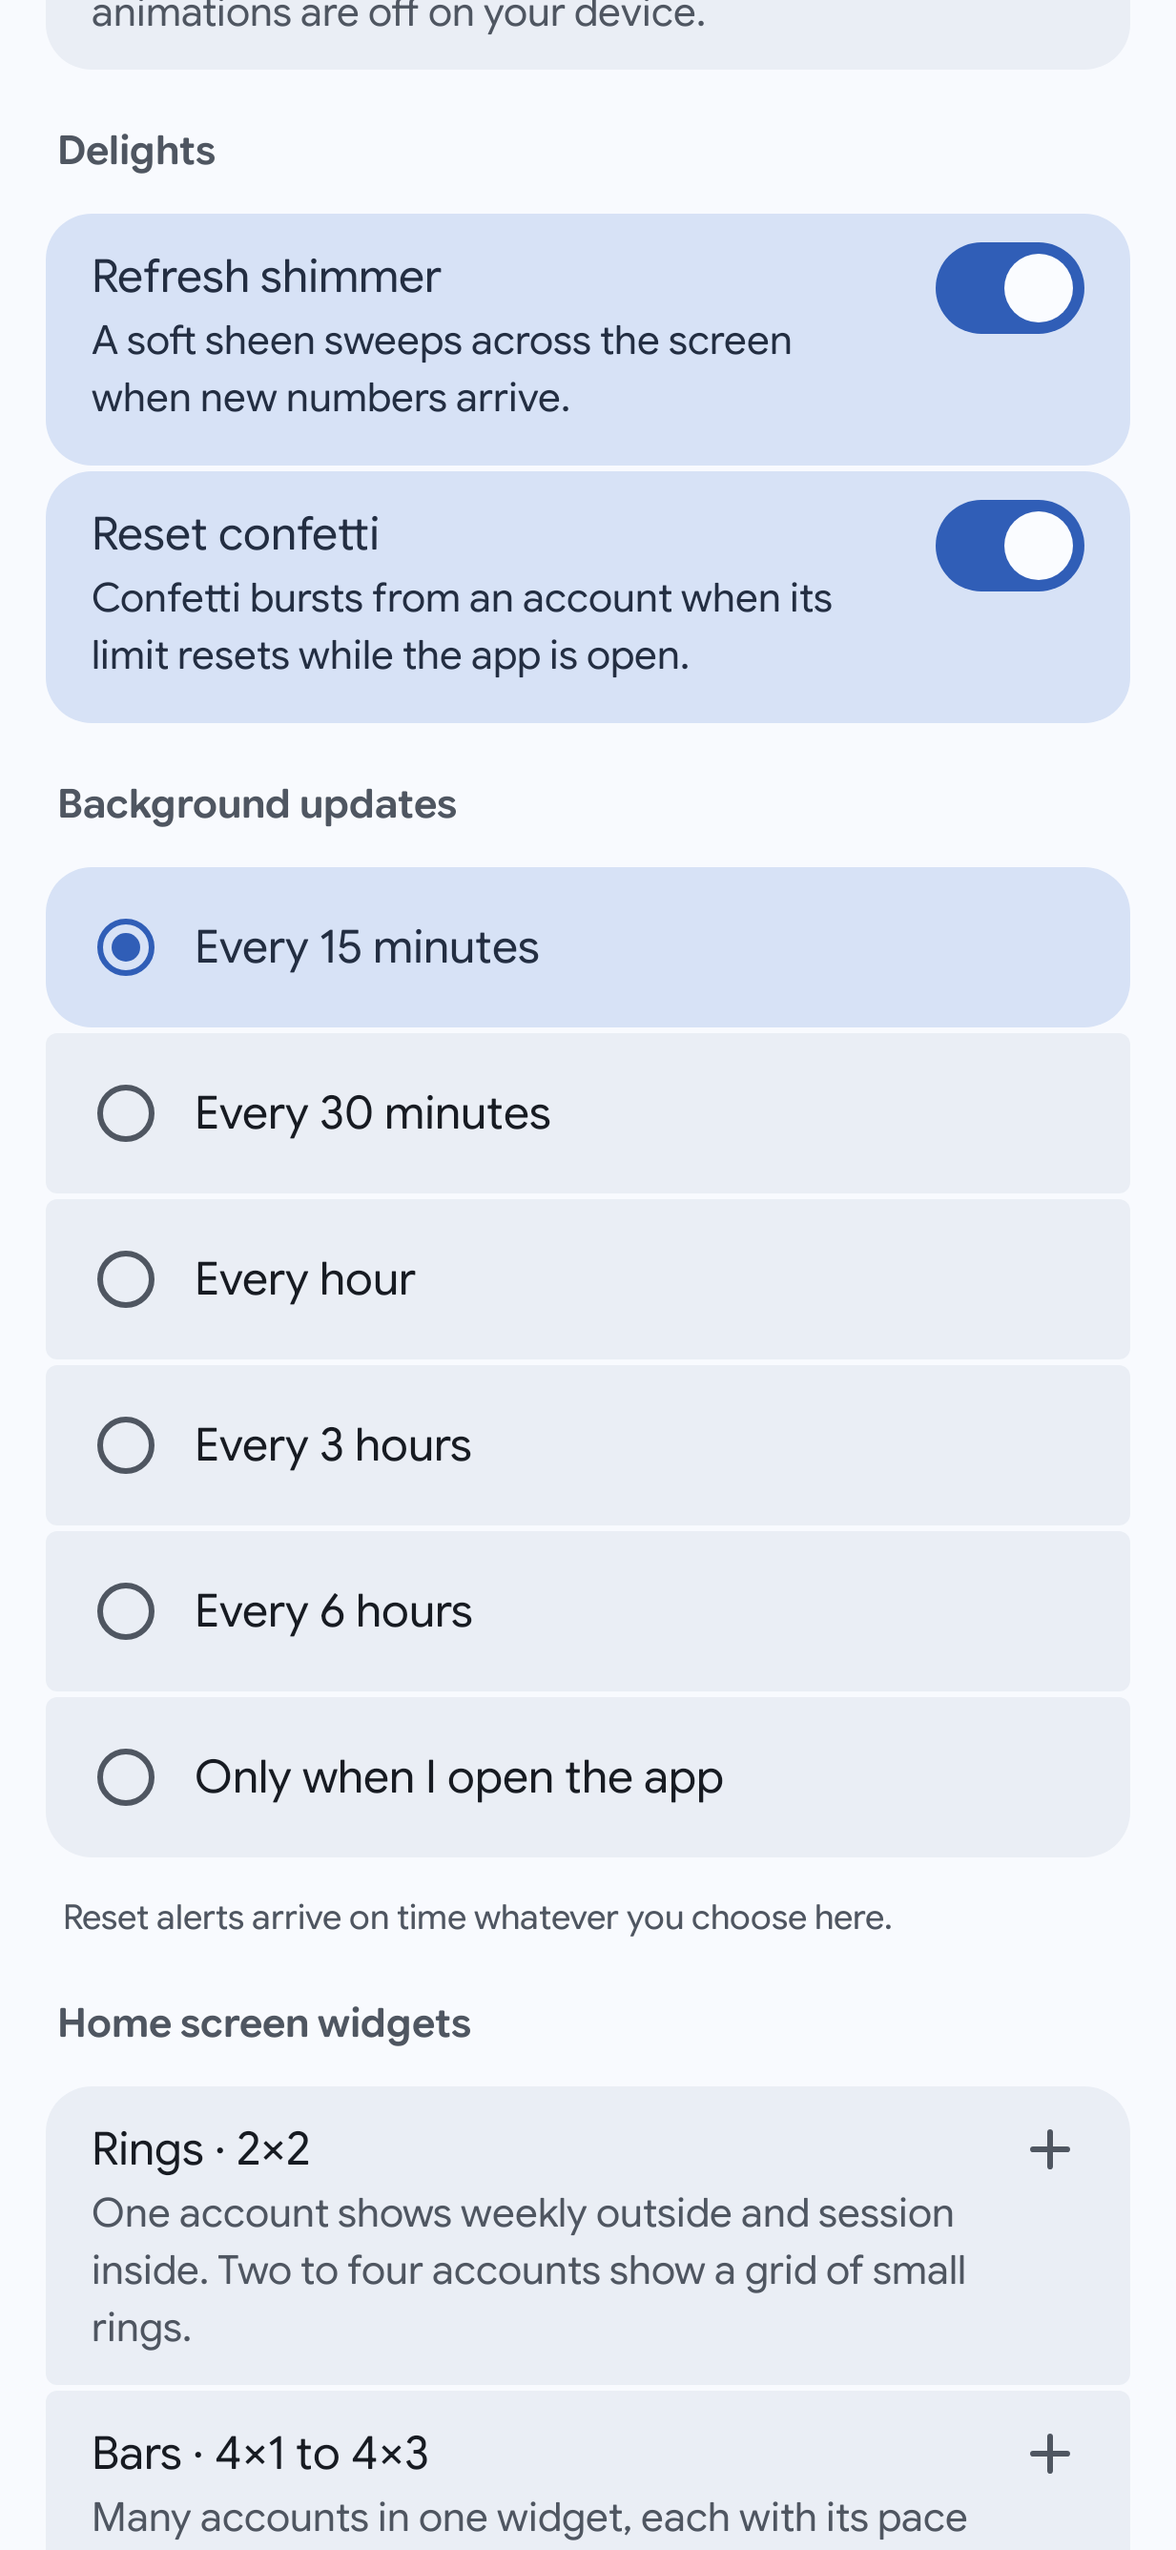
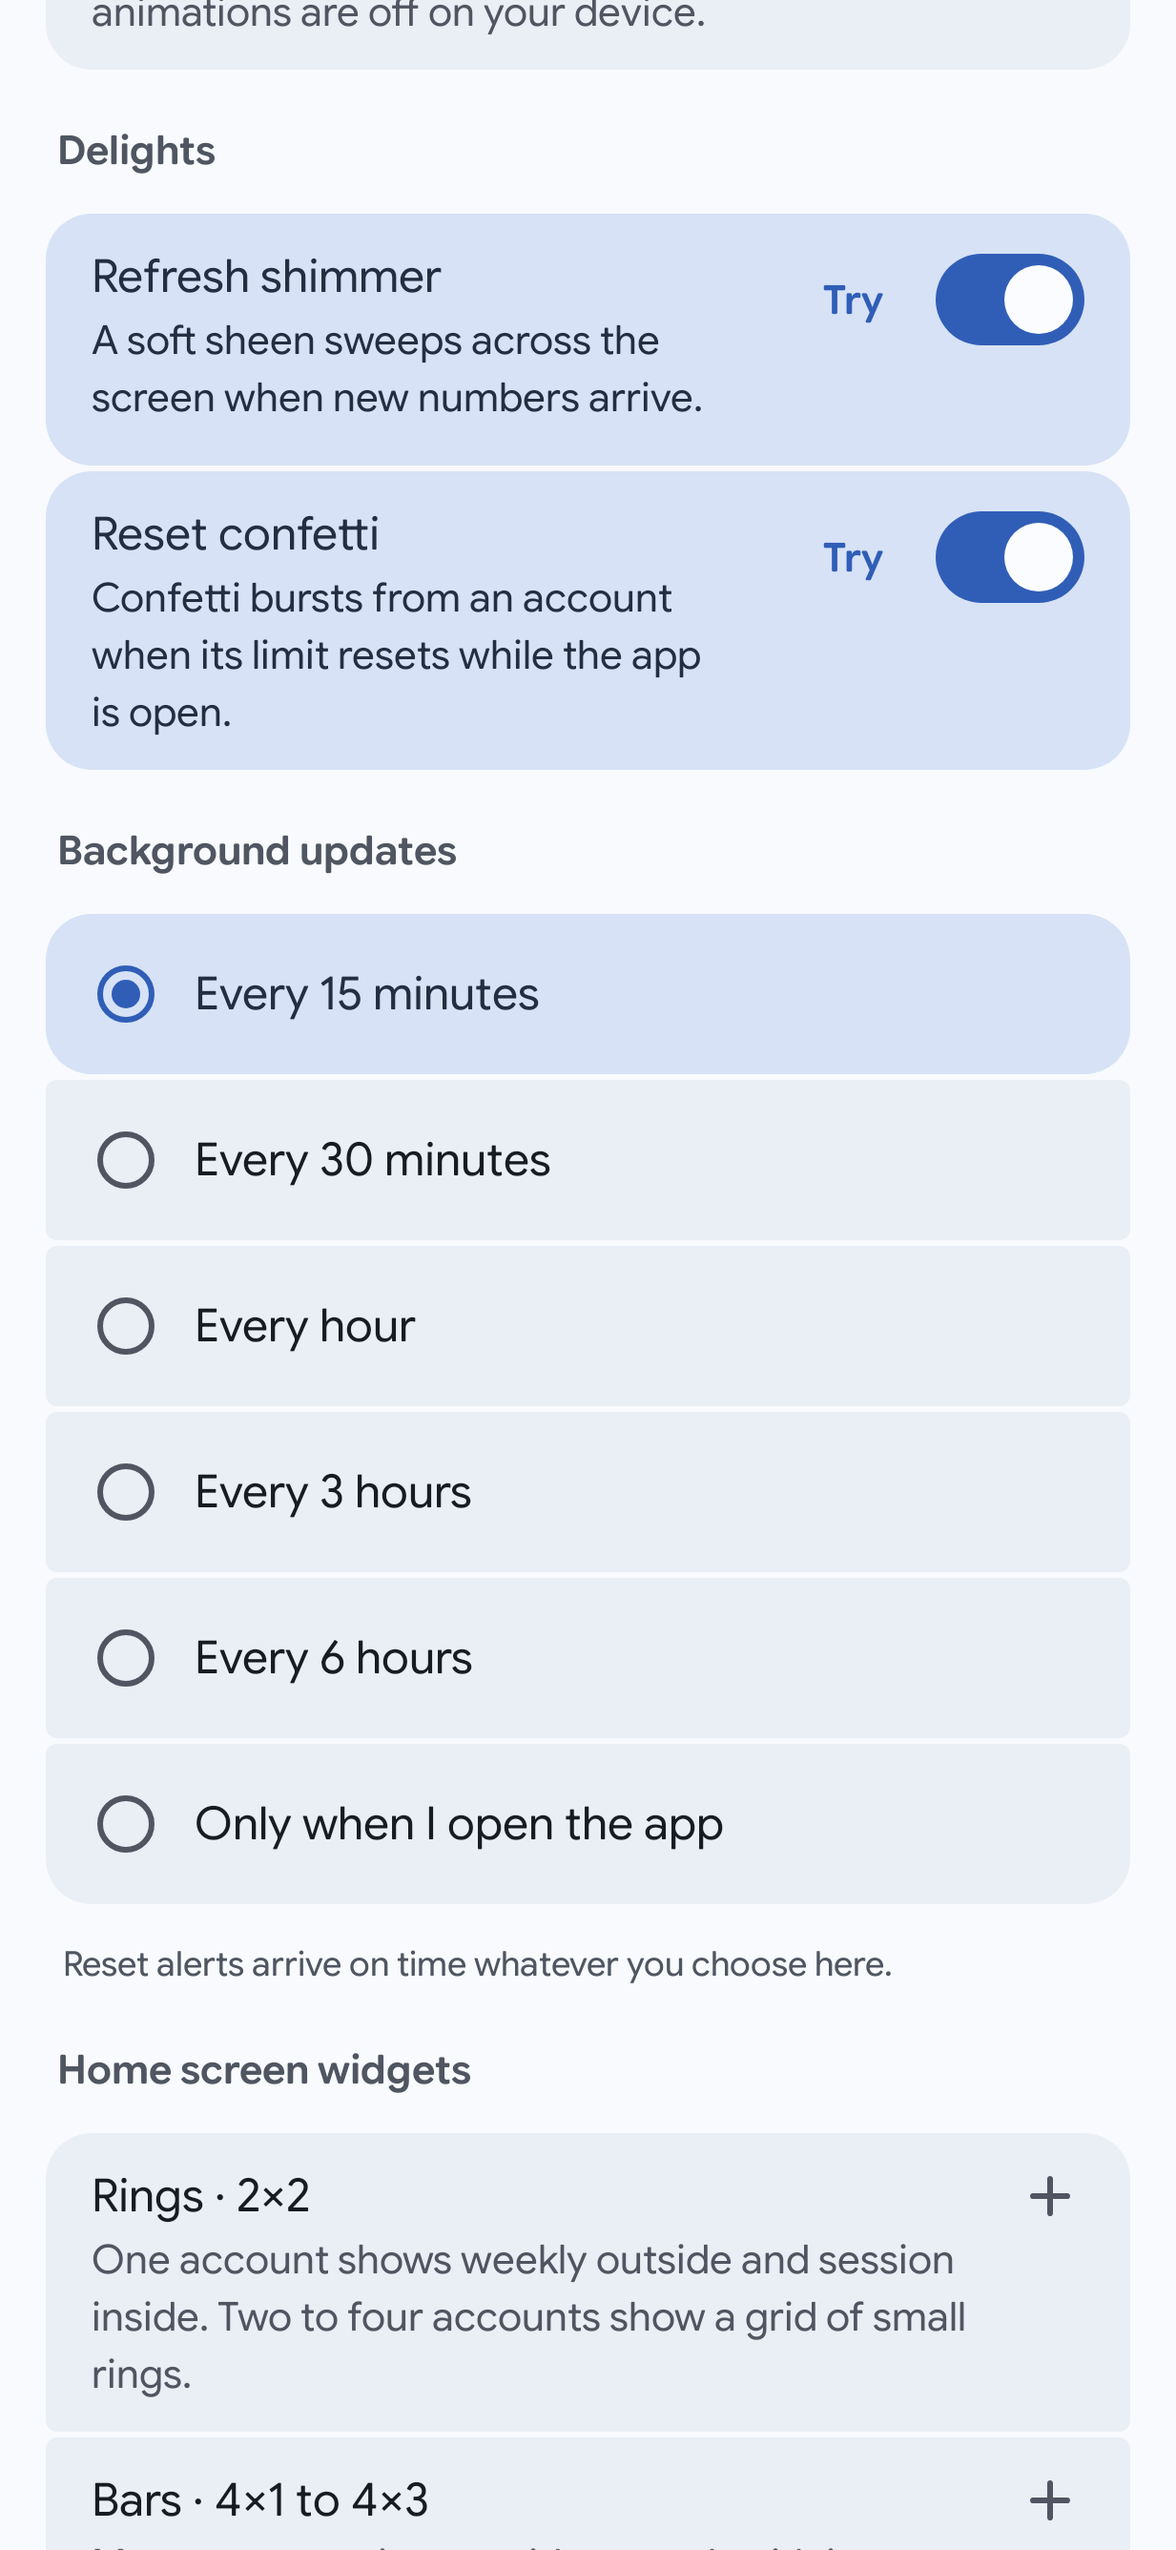
Add Try buttons to the delights and make the shimmer shine
Each delight in Settings has a Try button that plays it once, so it can
be seen without waiting for a refresh or a reset. The confetti bursts
from the button.

The shimmer was a flat translucent band that read as a tint. It is now a
sheen: a thin bright core, a primary and a tertiary fringe on either
side, a soft glow, and small glints that twinkle as the core passes.

diff --git a/app/src/main/kotlin/dev/sebastiano/headroom/ui/delights/RefreshShimmer.kt b/app/src/main/kotlin/dev/sebastiano/headroom/ui/delights/RefreshShimmer.kt
@@ -6,48 +6,81 @@ import androidx.compose.material3.MaterialTheme
 import androidx.compose.runtime.Composable
 import androidx.compose.runtime.remember
 import androidx.compose.ui.Modifier
+import androidx.compose.ui.graphics.Color
 import androidx.compose.ui.graphics.ShaderBrush
+import androidx.compose.ui.graphics.lerp
 import androidx.compose.ui.graphics.luminance
 import androidx.compose.ui.graphics.toArgb
 
 /**
- * The refresh shimmer: one soft diagonal band of light that sweeps from the top-left corner to the
- * bottom-right one. Across the band a faint ripple varies the light, like light through water, and
- * the band shades from the theme's primary colour to its tertiary one. It fades in and out with the
- * sweep, and at its brightest it only tints what is below it, so text stays readable.
+ * The refresh shimmer: a sheen of light that sweeps diagonally across the screen, like light across
+ * glass. It has four parts:
+ * - a thin, bright core in the `shine` colour;
+ * - a coloured fringe on each side of the core: `tint` ahead of it, `accent` behind it;
+ * - a soft glow that shades from `tint` to `accent` across the screen;
+ * - small glints on a jittered grid, which twinkle as the core passes them.
  *
- * Uniforms: `size` in pixels, `progress` from 0 to 1, `strength` the highest opacity, and the two
- * colours `tint` and `accent`.
+ * It fades in and out with the sweep, and stays mostly clear away from the core, so text stays
+ * readable.
+ *
+ * Uniforms: `size` in pixels, `progress` from 0 to 1, `strength` the highest opacity, `density` in
+ * pixels per dp, and the colours `shine`, `tint` and `accent`.
  */
 private const val SHIMMER_SHADER =
     """
 uniform float2 size;
 uniform float progress;
 uniform float strength;
+uniform float density;
+layout(color) uniform half4 shine;
 layout(color) uniform half4 tint;
 layout(color) uniform half4 accent;
 
+float hash(float2 p) {
+    return fract(sin(dot(p, float2(127.1, 311.7))) * 43758.5453);
+}
+
+// exp(-x²), squared by multiplication: pow() is undefined for a negative base.
+float bell(float x) {
+    return exp(-x * x);
+}
+
 half4 main(float2 coord) {
     // Along the sweep: 0 at the top-left corner, 1 at the bottom-right one.
-    float2 sweep = normalize(float2(1.0, 0.6));
+    float2 sweep = normalize(float2(1.0, 0.55));
     float along = dot(coord, sweep) / dot(size, sweep);
-    // Across the sweep, scaled by the height so the ripple looks the same on every screen.
     float across = dot(coord, float2(-sweep.y, sweep.x)) / size.y;
 
-    // The band starts off screen and ends off screen.
-    float centre = mix(-0.35, 1.35, progress);
-    // A narrow bright core inside a wider, fainter glow.
-    // Squares by multiplication: pow() is undefined for a negative base.
-    float core = (along - centre) / 0.045;
-    float glow = (along - centre) / 0.13;
-    float band = 0.7 * exp(-core * core) + 0.3 * exp(-glow * glow);
-    float ripple = 0.88 + 0.12 * sin(across * 40.0 + along * 12.0 - progress * 6.0)
-        * sin(across * 23.0 - progress * 4.0);
-    float envelope = sin(3.14159265 * progress);
+    // The sheen starts off screen and ends off screen.
+    float d = along - mix(-0.3, 1.3, progress);
+    float core = bell(d / 0.016);
+    float ahead = bell((d - 0.032) / 0.02);
+    float behind = bell((d + 0.032) / 0.02);
+    float glow = bell(d / 0.1);
 
-    half3 colour = mix(tint.rgb, accent.rgb, half(clamp(across, 0.0, 1.0)));
-    float alpha = strength * band * ripple * envelope;
-    return half4(colour * half(alpha), half(alpha));
+    // One glint in some cells of a 32dp grid, lit while the core is near it.
+    float cellSize = 32.0 * density;
+    float2 cell = floor(coord / cellSize);
+    float2 offset = float2(hash(cell + 1.7), hash(cell + 4.1)) - 0.5;
+    float2 local = fract(coord / cellSize) - 0.5 - offset * 0.6;
+    float radius = 2.2 * density / cellSize;
+    float glint = step(0.82, hash(cell)) * bell(length(local) / radius) * bell(d / 0.06);
+
+    float3 glowColour = mix(float3(tint.rgb), float3(accent.rgb), clamp(across, 0.0, 1.0));
+    float coreWeight = core * 0.95;
+    float fringeWeight = (ahead + behind) * 0.45;
+    float glowWeight = glow * 0.22;
+    float glintWeight = glint;
+    float weight = coreWeight + fringeWeight + glowWeight + glintWeight;
+    if (weight < 0.0001) return half4(0.0);
+    float3 colour = (float3(shine.rgb) * (coreWeight + glintWeight)
+        + float3(tint.rgb) * ahead * 0.45
+        + float3(accent.rgb) * behind * 0.45
+        + glowColour * glowWeight) / weight;
+
+    float envelope = smoothstep(0.0, 0.12, progress) * (1.0 - smoothstep(0.88, 1.0, progress));
+    float alpha = clamp(weight, 0.0, 1.0) * strength * envelope;
+    return half4(half3(colour * alpha), half(alpha));
 }
 """
 
@@ -55,14 +88,19 @@ half4 main(float2 coord) {
 @Composable
 internal fun RefreshShimmer(progress: () -> Float, modifier: Modifier = Modifier) {
     val scheme = MaterialTheme.colorScheme
-    val strength =
-        if (scheme.surface.luminance() < DARK_SURFACE_LUMINANCE) DARK_STRENGTH else LIGHT_STRENGTH
+    val dark = scheme.surface.luminance() < DARK_SURFACE_LUMINANCE
+    val strength = if (dark) DARK_STRENGTH else LIGHT_STRENGTH
     val shader = remember { RuntimeShader(SHIMMER_SHADER) }
     val brush = remember(shader) { ShaderBrush(shader) }
+    // On a dark theme the core shines white; on a light one white would vanish into the surface,
+    // so it shines in a light tint of the primary colour.
+    val shine = if (dark) Color.White else lerp(scheme.primary, Color.White, LIGHT_SHINE_WHITENESS)
     Canvas(modifier = modifier) {
         shader.setFloatUniform("size", size.width, size.height)
         shader.setFloatUniform("progress", progress())
         shader.setFloatUniform("strength", strength)
+        shader.setFloatUniform("density", density)
+        shader.setColorUniform("shine", shine.toArgb())
         shader.setColorUniform("tint", scheme.primary.toArgb())
         shader.setColorUniform("accent", scheme.tertiary.toArgb())
         drawRect(brush)
@@ -70,6 +108,7 @@ internal fun RefreshShimmer(progress: () -> Float, modifier: Modifier = Modifier
 }
 
 private const val DARK_SURFACE_LUMINANCE = 0.5f
-/** The highest opacity of the band: enough to notice, too little to hide anything. */
-private const val LIGHT_STRENGTH = 0.2f
-private const val DARK_STRENGTH = 0.16f
+/** The highest opacity, reached only in the thin core: bright, but gone in a moment. */
+private const val LIGHT_STRENGTH = 0.6f
+private const val DARK_STRENGTH = 0.7f
+private const val LIGHT_SHINE_WHITENESS = 0.55f

diff --git a/app/src/main/kotlin/dev/sebastiano/headroom/ui/settings/DelightsSettings.kt b/app/src/main/kotlin/dev/sebastiano/headroom/ui/settings/DelightsSettings.kt
@@ -3,17 +3,24 @@ package dev.sebastiano.headroom.ui.settings
 import androidx.annotation.StringRes
 import androidx.compose.foundation.layout.Arrangement
 import androidx.compose.foundation.layout.Column
+import androidx.compose.foundation.layout.Row
 import androidx.compose.material3.ExperimentalMaterial3ExpressiveApi
 import androidx.compose.material3.ListItemDefaults
 import androidx.compose.material3.MaterialTheme
 import androidx.compose.material3.SegmentedListItem
 import androidx.compose.material3.Switch
 import androidx.compose.material3.Text
+import androidx.compose.material3.TextButton
 import androidx.compose.runtime.Composable
+import androidx.compose.ui.Alignment
 import androidx.compose.ui.Modifier
 import androidx.compose.ui.platform.testTag
 import androidx.compose.ui.res.stringResource
+import androidx.compose.ui.semantics.contentDescription
+import androidx.compose.ui.semantics.semantics
 import dev.sebastiano.headroom.R
+import dev.sebastiano.headroom.ui.delights.LocalDelights
+import dev.sebastiano.headroom.ui.delights.delightAnchor
 
 const val REFRESH_SHIMMER_TAG: String = "refresh-shimmer"
 
@@ -32,12 +39,22 @@ internal fun DelightsList(
         modifier = modifier,
         verticalArrangement = Arrangement.spacedBy(ListItemDefaults.SegmentedGap),
     ) {
+        val delights = LocalDelights.current
+        val colours =
+            listOf(
+                MaterialTheme.colorScheme.primary,
+                MaterialTheme.colorScheme.secondary,
+                MaterialTheme.colorScheme.tertiary,
+            )
         DelightRow(
             title = R.string.settings_refresh_shimmer,
             body = R.string.settings_refresh_shimmer_body,
             checked = refreshShimmer,
             onChange = onRefreshShimmerChange,
             index = 0,
+            tryLabel = R.string.settings_try_refresh_shimmer,
+            canTry = delights?.canShimmer == true,
+            onTry = { delights?.playShimmer() },
             modifier = Modifier.testTag(REFRESH_SHIMMER_TAG),
         )
         DelightRow(
@@ -46,6 +63,10 @@ internal fun DelightsList(
             checked = resetConfetti,
             onChange = onResetConfettiChange,
             index = 1,
+            tryLabel = R.string.settings_try_reset_confetti,
+            canTry = delights?.canBurst == true,
+            onTry = { delights?.burstFrom(listOf(TRY_CONFETTI_ANCHOR), colours) },
+            tryModifier = Modifier.delightAnchor(TRY_CONFETTI_ANCHOR),
             modifier = Modifier.testTag(RESET_CONFETTI_TAG),
         )
     }
@@ -59,7 +80,11 @@ private fun DelightRow(
     checked: Boolean,
     onChange: (Boolean) -> Unit,
     index: Int,
+    @StringRes tryLabel: Int,
+    canTry: Boolean,
+    onTry: () -> Unit,
     modifier: Modifier = Modifier,
+    tryModifier: Modifier = Modifier,
 ) {
     SegmentedListItem(
         checked = checked,
@@ -70,7 +95,21 @@ private fun DelightRow(
                 containerColor = MaterialTheme.colorScheme.surfaceContainer
             ),
         supportingContent = { Text(stringResource(body)) },
-        trailingContent = { Switch(checked = checked, onCheckedChange = null) },
+        trailingContent = {
+            Row(verticalAlignment = Alignment.CenterVertically) {
+                // Plays the delight once, so it can be seen without waiting for a refresh or a
+                // reset.
+                val description = stringResource(tryLabel)
+                TextButton(
+                    onClick = onTry,
+                    enabled = canTry,
+                    modifier = tryModifier.semantics { contentDescription = description },
+                ) {
+                    Text(stringResource(R.string.settings_try_delight))
+                }
+                Switch(checked = checked, onCheckedChange = null)
+            }
+        },
         modifier = modifier,
     ) {
         Text(stringResource(title))
@@ -78,3 +117,6 @@ private fun DelightRow(
 }
 
 private const val DELIGHTS = 2
+
+/** Where the confetti of the "Try" button bursts from: the button itself. */
+private const val TRY_CONFETTI_ANCHOR = "try-confetti"

diff --git a/app/src/test/kotlin/dev/sebastiano/headroom/ui/DelightsPreviewTest.kt b/app/src/test/kotlin/dev/sebastiano/headroom/ui/DelightsPreviewTest.kt
@@ -1,0 +1,77 @@
+package dev.sebastiano.headroom.ui
+
+import androidx.activity.ComponentActivity
+import androidx.compose.ui.test.assertIsNotEnabled
+import androidx.compose.ui.test.assertIsOn
+import androidx.compose.ui.test.hasTestTag
+import androidx.compose.ui.test.junit4.v2.createAndroidComposeRule
+import androidx.compose.ui.test.onNodeWithContentDescription
+import androidx.compose.ui.test.onNodeWithTag
+import androidx.compose.ui.test.performClick
+import androidx.compose.ui.test.performScrollToNode
+import dev.sebastiano.headroom.designsystem.HeadroomTheme
+import dev.sebastiano.headroom.model.InMemorySettingsRepository
+import dev.sebastiano.headroom.ui.delights.CONFETTI_OVERLAY_TAG
+import dev.sebastiano.headroom.ui.delights.DelightsHost
+import dev.sebastiano.headroom.ui.delights.SHIMMER_OVERLAY_TAG
+import dev.sebastiano.headroom.ui.settings.REFRESH_SHIMMER_TAG
+import dev.sebastiano.headroom.ui.settings.RESET_CONFETTI_TAG
+import dev.sebastiano.headroom.ui.settings.SETTINGS_LIST_TAG
+import org.junit.Rule
+import org.junit.Test
+import org.junit.runner.RunWith
+import org.robolectric.RobolectricTestRunner
+import org.robolectric.annotation.Config
+
+/** Each delight has a "Try it" button in Settings that plays it once, without changing anything. */
+@RunWith(RobolectricTestRunner::class)
+@Config(qualifiers = "w411dp-h891dp")
+class DelightsPreviewTest {
+    @get:Rule val rule = createAndroidComposeRule<ComponentActivity>()
+
+    private fun openDelights(shimmer: Boolean = true, confetti: Boolean = true) {
+        rule.setContent {
+            HeadroomTheme(dynamicColor = false) {
+                DelightsHost(refreshShimmer = shimmer, resetConfetti = confetti) {
+                    HeadroomApp(
+                        graph = testGraph(rule.activity, settings = InMemorySettingsRepository())
+                    )
+                }
+            }
+        }
+        rule.onNodeWithContentDescription("Settings").performClick()
+        rule.onNodeWithTag(SETTINGS_LIST_TAG).performScrollToNode(hasTestTag(RESET_CONFETTI_TAG))
+    }
+
+    @Test
+    fun `trying the shimmer plays it and leaves its switch alone`() {
+        openDelights()
+        rule.mainClock.autoAdvance = false
+
+        rule.onNodeWithContentDescription("Try the refresh shimmer").performClick()
+        rule.mainClock.advanceTimeByFrame()
+
+        rule.onNodeWithTag(SHIMMER_OVERLAY_TAG).assertExists()
+        rule.onNodeWithTag(REFRESH_SHIMMER_TAG).assertIsOn()
+    }
+
+    @Test
+    fun `trying the confetti bursts it and leaves its switch alone`() {
+        openDelights()
+        rule.mainClock.autoAdvance = false
+
+        rule.onNodeWithContentDescription("Try the reset confetti").performClick()
+        rule.mainClock.advanceTimeByFrame()
+
+        rule.onNodeWithTag(CONFETTI_OVERLAY_TAG).assertExists()
+        rule.onNodeWithTag(RESET_CONFETTI_TAG).assertIsOn()
+    }
+
+    @Test
+    fun `a delight that is off cannot be tried`() {
+        openDelights(shimmer = false, confetti = false)
+
+        rule.onNodeWithContentDescription("Try the refresh shimmer").assertIsNotEnabled()
+        rule.onNodeWithContentDescription("Try the reset confetti").assertIsNotEnabled()
+    }
+}

diff --git a/app/src/main/kotlin/dev/sebastiano/headroom/ui/delights/Delights.kt b/app/src/main/kotlin/dev/sebastiano/headroom/ui/delights/Delights.kt
@@ -126,6 +126,14 @@ class Delights internal constructor(private val scope: CoroutineScope) {
         burstFrom(anchors, colors)
     }
 
+    /** True when the shimmer would play: it is switched on and motion is not reduced. */
+    val canShimmer: Boolean
+        get() = shimmerOn
+
+    /** True when confetti would burst: it is switched on and motion is not reduced. */
+    val canBurst: Boolean
+        get() = confettiOn
+
     /** True while the node marked with [Modifier.delightAnchor] and [key] is on screen. */
     fun hasAnchor(key: Any): Boolean = key in anchors
 
@@ -147,7 +155,7 @@ class Delights internal constructor(private val scope: CoroutineScope) {
     }
 
     private companion object {
-        const val SHIMMER_MILLIS = 900
+        const val SHIMMER_MILLIS = 1_100
     }
 }
 

diff --git a/app/src/test/kotlin/dev/sebastiano/headroom/ui/DelightsTest.kt b/app/src/test/kotlin/dev/sebastiano/headroom/ui/DelightsTest.kt
@@ -169,7 +169,7 @@ class DelightsTest {
     private companion object {
         const val ANCHOR = "card"
         val COLOURS = listOf(Color.Red, Color.Blue)
-        const val SHIMMER_DONE_MILLIS = 1_100L
+        const val SHIMMER_DONE_MILLIS = 1_300L
         const val CONFETTI_DONE_MILLIS = 2_300L
     }
 }
